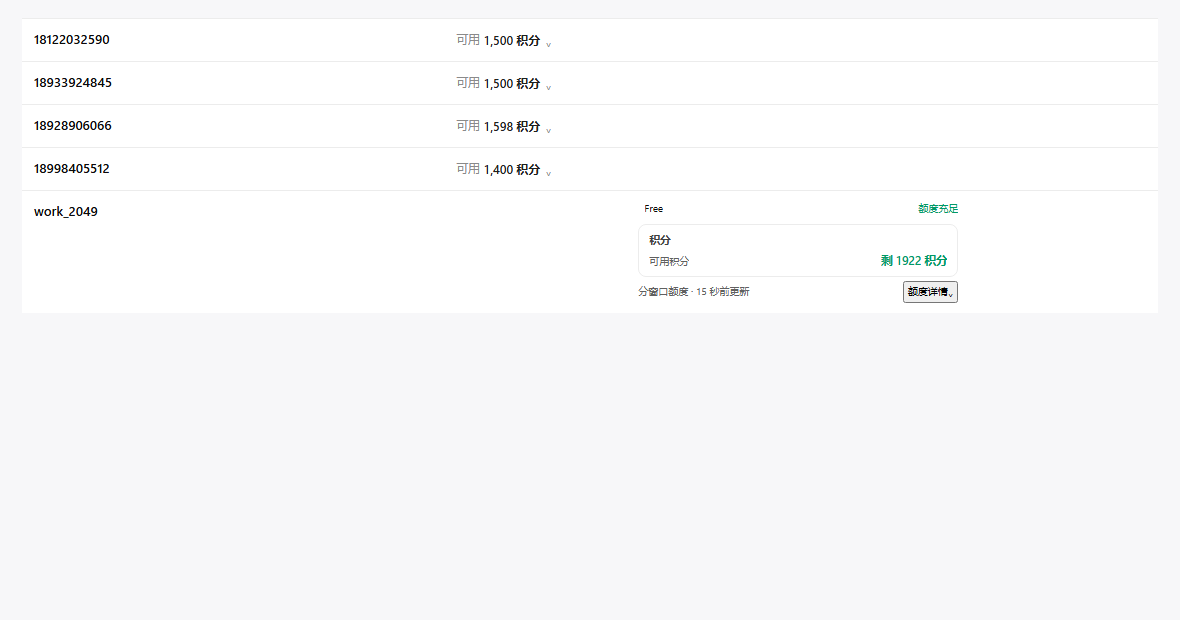
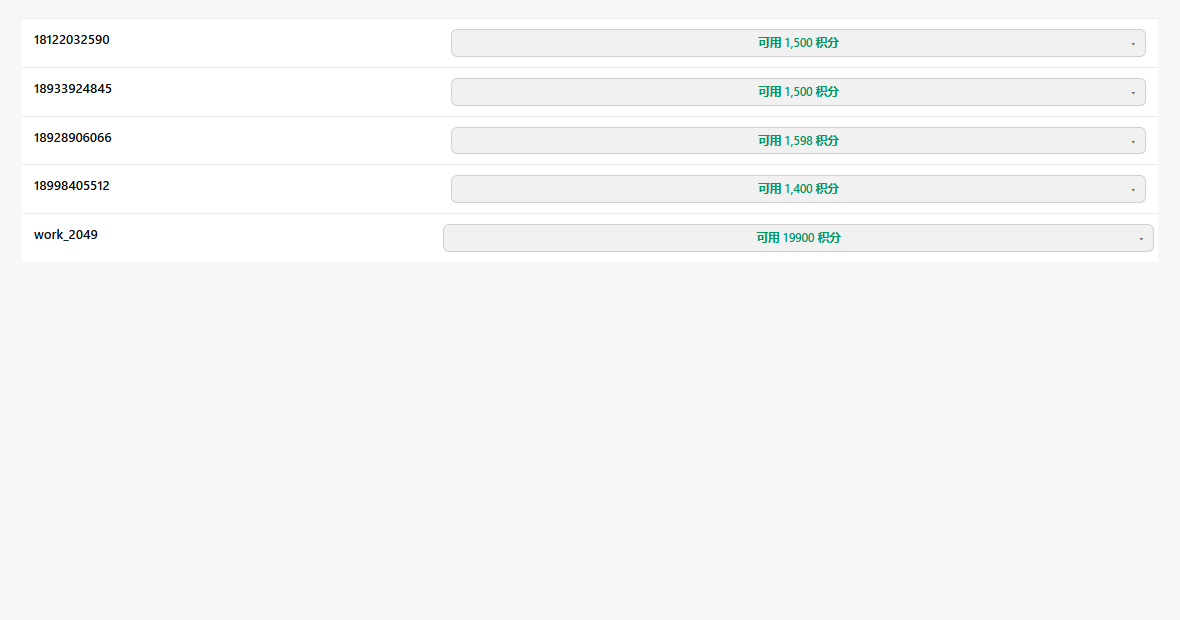
style(host-patch): reuse host usage-toggle/pop classes so AStudio matches WorkBuddy (0.7.2)

diff --git a/host-patch/astudio-usage-compact.js b/host-patch/astudio-usage-compact.js
@@ -33,9 +33,8 @@
 #@POP@ {
   position: fixed;
   z-index: 2147483000;
-  min-width: 248px;
+  width: 320px;
   max-width: min(320px, calc(100vw - 24px));
-  padding: 10px 14px 12px;
   border: 1px solid var(--ui-hairline, #e6e6e6);
   border-radius: var(--r-md, 10px);
   background: var(--ui-surface, #fff);
@@ -45,118 +44,9 @@
   line-height: 1.45;
 }
 #@POP@[hidden] { display: none; }
-#@POP@ .a2a-usage-head {
-  display: flex;
-  align-items: baseline;
-  gap: 8px;
-  color: var(--ui-text-3, #8a8a8a);
-  font-size: 11.5px;
-}
-#@POP@ .a2a-usage-head b {
-  color: var(--ui-text-1, #1f1f1f);
-  font-size: 12.5px;
-  font-weight: 600;
-}
-#@POP@ .a2a-usage-head .a2a-usage-status {
-  margin-left: auto;
-  color: var(--ui-success, #12a150);
-}
-#@POP@ .a2a-usage-total {
-  display: flex;
-  align-items: baseline;
-  gap: 8px;
-  margin-top: 10px;
-  padding: 8px 11px;
-  border-radius: var(--r-xs, 6px);
-  background: var(--ui-surface-inset, #f1f1f2);
-}
-#@POP@ .a2a-usage-total .k { font-size: 11.5px; color: var(--ui-text-3, #8a8a8a); }
-#@POP@ .a2a-usage-total .v {
-  margin-left: auto;
-  color: var(--ui-success, #12a150);
-  font-size: 13.5px;
-  font-weight: 700;
-  font-variant-numeric: tabular-nums;
-}
-#@POP@ .a2a-usage-group {
-  display: flex;
-  align-items: center;
-  gap: 8px;
-  margin-top: 12px;
-  color: var(--ui-text-3, #8a8a8a);
-  font-size: 11px;
-}
-#@POP@ .a2a-usage-group::after {
-  content: "";
-  flex: 1;
-  height: 1px;
-  background: var(--ui-hairline, #e6e6e6);
-}
-#@POP@ .a2a-usage-row {
-  display: flex;
-  align-items: baseline;
-  gap: 8px;
-  padding: 7px 0;
-}
-#@POP@ .a2a-usage-row + .a2a-usage-row { border-top: 1px dashed var(--ui-hairline, #e6e6e6); }
-#@POP@ .a2a-usage-name {
-  min-width: 0;
-  overflow: hidden;
-  text-overflow: ellipsis;
-  white-space: nowrap;
-  color: var(--ui-text-2, #4a4a4a);
-}
-#@POP@ .a2a-usage-view {
-  margin-left: auto;
-  flex: none;
-  font-weight: 600;
-  font-variant-numeric: tabular-nums;
-}
-#@POP@ .a2a-usage-view.muted { color: var(--ui-text-3, #8a8a8a); font-weight: 500; }
-#@POP@ .a2a-usage-foot {
-  margin-top: 10px;
-  padding-top: 9px;
-  border-top: 1px solid var(--ui-hairline, #e6e6e6);
-  color: var(--ui-text-3, #8a8a8a);
-  font-size: 10.5px;
-}
-
-.a2a-usage-line {
-  display: inline-flex;
-  align-items: center;
-  gap: 4px;
-  max-width: 100%;
-  margin: 0;
-  padding: 2px 6px;
-  border: 0;
-  border-radius: var(--r-xs, 6px);
-  background: transparent;
-  color: var(--ui-text-1, #1f1f1f);
-  font: inherit;
-  font-size: 12px;
-  line-height: 1.5;
-  text-align: left;
-  cursor: pointer;
-}
-.a2a-usage-line:hover { background: var(--ui-row-hover, rgba(0, 0, 0, .05)); }
-.a2a-usage-line:focus-visible { outline: 2px solid var(--ui-focus-ring, #4a8cff); outline-offset: 1px; }
-.a2a-usage-line .a2a-usage-label { flex: none; color: var(--ui-text-3, #8a8a8a); font-size: 11.5px; }
-.a2a-usage-line .a2a-usage-value {
-  flex: none;
-  font-weight: 600;
-  font-variant-numeric: tabular-nums;
-  white-space: nowrap;
-}
-.a2a-usage-line .a2a-usage-value.is-zero { color: var(--ui-text-3, #8a8a8a); font-weight: 500; }
-.a2a-usage-line .a2a-usage-caret {
-  flex: none;
-  margin-left: 1px;
-  color: var(--ui-text-3, #8a8a8a);
-  font-size: 11px;
-  line-height: 1;
-  transition: transform .15s ease;
-}
-.a2a-usage-line[aria-expanded="true"] .a2a-usage-caret { transform: rotate(180deg); }
+/* 按钮本体直接用宿主的 .usage-toggle，这里只把宽度收敛到余额列内，
+   其余底色/描边/圆角/绿字/箭头/悬停/展开态全部继承宿主样式 */
+.a2a-usage-line.usage-toggle { width: 100%; margin-inline: 0; }
 `.split("@POP@").join(POP_ID);
 
   const style = document.createElement("style");
@@ -231,25 +121,24 @@
     const node = ensurePop();
     node.textContent = "";
 
-    const head = document.createElement("div");
-    head.className = "a2a-usage-head";
-    const planLabel = document.createElement("span");
-    planLabel.textContent = "套餐";
-    const planValue = document.createElement("b");
-    planValue.textContent = data.plan || "—";
-    head.append(planLabel, planValue);
-    if (data.status) {
-      const status = document.createElement("span");
-      status.className = "a2a-usage-status";
-      status.textContent = data.status;
-      head.appendChild(status);
+    // 结构照宿主 WorkBuddy/AutoClaw 的 .usage-pop 一组，样式全部复用宿主 CSS
+    const wrap = document.createElement("div");
+    wrap.className = "usage-pop";
+
+    if (data.plan || data.status) {
+      const sub = document.createElement("div");
+      sub.className = "usage-pop-sub";
+      const bits = [];
+      if (data.plan) bits.push("套餐 " + data.plan);
+      if (data.status) bits.push(data.status);
+      sub.textContent = bits.join(" · ");
+      wrap.appendChild(sub);
     }
-    node.appendChild(head);
 
     const total = totalOf(data.rows);
     if (total !== null) {
       const box = document.createElement("div");
-      box.className = "a2a-usage-total";
+      box.className = "usage-pop-total";
       const key = document.createElement("span");
       key.className = "k";
       key.textContent = "总积分";
@@ -257,44 +146,48 @@
       value.className = "v";
       value.textContent = formatNumber(total) + " 积分";
       box.append(key, value);
-      node.appendChild(box);
+      wrap.appendChild(box);
     }
 
     const group = document.createElement("div");
-    group.className = "a2a-usage-group";
+    group.className = "usage-pop-group";
     group.textContent = "积分明细";
-    node.appendChild(group);
+    wrap.appendChild(group);
 
     for (const row of data.rows) {
       const line = document.createElement("div");
-      line.className = "a2a-usage-row";
+      line.className = "usage-pop-line";
       const name = document.createElement("span");
-      name.className = "a2a-usage-name";
+      name.className = "usage-pop-name";
       name.textContent = row.name;
       const view = document.createElement("span");
       const amount = amountOf(row.view);
-      view.className = "a2a-usage-view" + (amount === 0 ? " muted" : "");
+      view.className = "usage-pop-view " + (amount ? "ok" : "muted");
       view.textContent = row.view;
       line.append(name, view);
-      node.appendChild(line);
+      const rowWrap = document.createElement("div");
+      rowWrap.className = "usage-pop-row";
+      rowWrap.appendChild(line);
+      wrap.appendChild(rowWrap);
     }
 
     if (data.updated) {
-      const foot = document.createElement("div");
-      foot.className = "a2a-usage-foot";
-      foot.textContent = data.updated;
-      node.appendChild(foot);
+    const foot = document.createElement("div");
+    foot.className = "usage-pop-sub";
+    foot.textContent = data.updated;
+    wrap.appendChild(foot);
     }
+
+    node.appendChild(wrap);
     return node;
   }
-
   function place(anchor) {
     const node = ensurePop();
     const rect = anchor.getBoundingClientRect();
     node.hidden = false;
     const box = node.getBoundingClientRect();
     const margin = 6;
-    let left = rect.left;
+    let left = rect.left + (rect.width - box.width) / 2;
     if (left + box.width > window.innerWidth - 8) left = Math.max(8, window.innerWidth - 8 - box.width);
     let top = rect.bottom + margin;
     if (top + box.height > window.innerHeight - 8) {
@@ -345,18 +238,18 @@
     if (!button) {
       button = document.createElement("button");
       button.type = "button";
-      button.className = "a2a-usage-line";
+      // 按钮本体复用宿主 .usage-toggle：底色/描边/圆角/绿字/箭头/悬停/展开态
+      // 全部由宿主 CSS 提供（WorkBuddy/AutoClaw 同一套），不在这里自造样式
+      button.className = "a2a-usage-line usage-toggle";
       button.setAttribute("aria-expanded", "false");
       button.setAttribute("aria-haspopup", "dialog");
-      const labelNode = document.createElement("span");
-      labelNode.className = "a2a-usage-label";
-      labelNode.textContent = "可用";
-      const valueNode = document.createElement("span");
-      valueNode.className = "a2a-usage-value";
+      const valNode = document.createElement("span");
+      valNode.className = "val";
       const caret = document.createElement("span");
-      caret.className = "a2a-usage-caret";
-      caret.textContent = "⌄";
-      button.append(labelNode, valueNode, caret);
+      caret.className = "caret";
+      caret.setAttribute("aria-hidden", "true");
+      caret.textContent = "▾";
+      button.append(valNode, caret);
       button.addEventListener("click", (event) => {
         event.preventDefault();
         event.stopPropagation();
@@ -367,10 +260,10 @@
       td.appendChild(button);
     }
 
-    const valueNode = button.querySelector(".a2a-usage-value");
-    valueNode.textContent = value;
-    valueNode.classList.toggle("is-zero", total === 0);
-
+    const valNode = button.querySelector(".val");
+    valNode.textContent = "可用 " + value;
+    button.classList.toggle("ok", total > 0);
+    button.classList.toggle("muted", !(total > 0));
     // 隐藏原生卡片，但保留它 —— 弹窗的数据就是从这里读的
     cell.style.display = "none";
   }

diff --git a/host-patch/verify-usage.py b/host-patch/verify-usage.py
@@ -50,6 +50,9 @@ ACCOUNTS = [
 BUILD_ROWS = """
 (accounts) => {
   const esc = (s) => String(s).replace(/[&<>"]/g, (c) => ({ "&": "&amp;", "<": "&lt;", ">": "&gt;", '"': "&quot;" }[c]));
+  const hostToggle = '<button type="button" class="usage-toggle ok" aria-expanded="false">' +
+    '<span class="val">可用 19900 积分</span>' +
+    '<span class="caret" aria-hidden="true">▾</span></button>';
   const cell = (a) =>
     '<span class="usage-sum-wrap flex flex-col gap-1">' +
       '<span class="usage-cell usage-window-cell"><span class="usage-window-quota">' +
@@ -77,7 +80,7 @@ BUILD_ROWS = """
   document.getElementById("rows").innerHTML = accounts.map((a) =>
     '<tr class="acct-row" data-id="' + a.id + '" data-provider="' + a.provider + '">' +
       '<td class="cell-name">' + esc(a.name) + '</td>' +
-      '<td class="cell-usage">' + cell(a) + '</td>' +
+      '<td class="cell-usage">' + (a.provider === "workbuddy" ? hostToggle : cell(a)) + '</td>' +
       '</tr>').join('');
 }
 """
@@ -129,23 +132,43 @@ async def main():
         lines = await page.eval_on_selector_all(
             "tr.acct-row .a2a-usage-line", "els => els.map(e => e.textContent)"
         )
+        classes = await page.eval_on_selector_all(
+            "tr.acct-row[data-provider='astudio'] .a2a-usage-line", "els => els.map(e => e.className)"
+        )
+        val_text = await page.eval_on_selector_all(
+            "tr.acct-row[data-provider='astudio'] .a2a-usage-line .val", "els => els.map(e => e.textContent)"
+        )
+        caret_text = await page.eval_on_selector_all(
+            "tr.acct-row[data-provider='astudio'] .a2a-usage-line .caret", "els => els.map(e => e.textContent)"
+        )
+        wb_toggle = await page.eval_on_selector_all(
+            "tr.acct-row[data-provider='workbuddy'] .usage-toggle", "els => els.map(e => e.textContent)"
+        )
+        print("装饰出的单条读数：", lines)
         hidden = await page.eval_on_selector_all(
             "tr.acct-row[data-provider='astudio'] .usage-window-cell",
             "els => els.map(e => getComputedStyle(e).display)",
         )
         untouched = await page.eval_on_selector_all(
-            "tr.acct-row[data-provider='workbuddy'] .usage-window-cell",
-            "els => els.map(e => getComputedStyle(e).display)",
+            "tr.acct-row[data-provider='workbuddy'] .a2a-usage-line",
+            "els => els.length",
         )
-        print("装饰出的单条读数：", lines)
+        print("AStudio 按钮 class（应 usage-toggle ok）：", classes)
+        print("AStudio .val 读数：", val_text)
+        print("AStudio .caret（应 ▾）：", caret_text)
         print("astudio 原生卡片 display（应全 none）：", hidden)
-        print("workbuddy 原生卡片 display（应仍 block）：", untouched)
+        print("workbuddy 行被装饰数（应 0）：", untouched)
+        print("WorkBuddy 宿主胶囊（对比基准）：", wb_toggle)
         await page.screenshot(path=str(SHOTS / "usage-1-closed.png"))
 
         await page.click("tr.acct-row[data-provider='astudio'] .a2a-usage-line")
         await page.wait_for_timeout(250)
         text = await page.eval_on_selector("#a2a-usage-pop", "e => e.innerText")
-        print("浮层内容：", text.replace("\n", " | "))
+        pop_classes = await page.eval_on_selector_all(
+            "#a2a-usage-pop [class]", "els => els.map(e => e.className)"
+        )
+        print("浮层内容：", text.replace(chr(10), " | "))
+        print("浮层复用的宿主类：", sorted(set(pop_classes)))
         await page.screenshot(path=str(SHOTS / "usage-2-open.png"))
 
         await page.mouse.click(30, 560)

diff --git a/docs/state/progress.md b/docs/state/progress.md
@@ -36,3 +36,4 @@
 - 2026-11-21 23:40 | #032 | 滑块结果进不了插件：补一个 ask（0.7.1） | 0.7.0 部署后实测 `POST /api/session/login/start` 带 `inputs:{mobile, captcha}` 被宿主回 400 `{"error":"inputs 包含未申报的字段或非字符串值"}` —— 卡在 `api/session.rs:405-417 checked_login_inputs`：只有 `method.dynamic_prompts` 为真才放行未申报字段，否则每个 key 必须落在 `method.prompts` 里。`dynamic_prompts` 的唯一来源是 `host/login.mjs:22`（`typeof method.ask === "function"` 或某个 prompt 的 condition 是函数），而 `api/session.rs:305-311` 禁止 `type==="sms"` 的方法声明 prompts/dynamic_prompts，所以这条只能继续挂 oauth。改法：方法 1 加 `ask: () => null` —— 标记成动态表单，但 `login-prompts.mjs:59` 见到 null 不追加字段，面板上仍然只有手机号一个输入框（且面板前端 `/app/ui/islands/ui.js` 里 `dynamicPrompts` 出现 0 次，根本不读这个标记，外观零变化）。**实测**：gk 上 `methods` 里方法 1 变 `dynamicPrompts:true`、`prompts:['mobile']`；假三件 → 502「滑块校验没通过，请重新拖一次（AStudio 发送短信验证码失败（HTTP 200：geetest verify failed））」（证明字段进到了插件、发码请求真的发出去了）；**真三件**（本地 playwright 解滑块拿 `{geetest_challenge,geetest_validate,geetest_seccode}`）→ 200、`authUrl:""`、`externalBrowser:true`、instructions 末尾「短信验证码已发送到 181****2590：…」⇒ 服务端发码链路成立，短信真的发出去了。77 条测试全绿（新增 ask 断言） | 0.7.1
 - 2026-11-21 23:52 | #033 | 删掉「手机验证码（已收到码）」（0.7.2） | 用户看截图后说「这个不需要，移除。根据目前操作步骤和业务逻辑，我很难已收到短信验证码」—— 确实：这条要求点按钮**之前**手里已经有验证码，而正常顺序是先点按钮才发码，只有装了补丁（面板内发码）或自己去网页取过码的人才有码，留着只会让人困惑。删掉后方法表变 5 条：0 扫码 / 1 手机验证码登录 / 2 粘贴模型凭据 / 3 导入凭据 JSON / 4 导入本机登录态（序号是数组下标，所以后面三条各前移一位）。连带删掉 `lib/login.mjs` 的 `authorizeSmsForm`、`index.mjs` 里对 `LOGIN_PAGE_URL` 的 import、两条对应用例，README 方法表与 A/B 两条路径改成 C/A。**注意 `authorizeSms` 仍然认 `inputs.code`**：方法 1 现在带 `ask`（dynamicPrompts=true），补丁要是在 start 里顺带把码一起交上来也接得住。测试 77 → **76 条全绿**。gk 上复核 `methods` 5 条、方法 1 仍 `dynamicPrompts:true` + `prompts:['mobile']`；账号表回到 4 个（18998405512 已被用户自己加回来，addedAt 1795275407070） | 0.7.2
 - 2026-11-22 00:35 | #034 | 余额列改成单条读数 + 弹窗（宿主补丁） | 用户要求把 AStudio · zp 的余额列改成 WorkBuddy 那种「一行读数 + 点开浮层看明细」。**数据层做不到**：面板余额格的形态由宿主 `reports.mjs:11-39 usageReport()` 决定，它只透 `{success, windows[], user, signIn, resets, subscription, available, availableView, balanceView, warnings}`；WorkBuddy 的单行读数靠 `totalLeft`、明细靠 `credits`（`ui.js` 的 `lOe()` 判 `hasOwnProperty("totalLeft")`、弹层读 `t.credits`），`wallets` 那条路（`uOe`/`dOe`）也要 `wallets` —— 这些键都由宿主自己的 native provider 产出，脚本插件这条路上全部被裁掉；`reports.mjs` 又编译进 server 二进制（容器里 `find / -name reports.mjs` 无结果），改不了。所以走**宿主 UI 补丁**：新增 `host-patch/astudio-usage-compact.js`，在 `tr.acct-row[data-provider="astudio"]` 的 `td.cell-usage` 里隐藏 React 渲染的 `.usage-window-cell`，插入按钮「可用 1,500 积分 ⌄」，点开浮层显示套餐 / 总积分（各池相加）/ 各池余额 / 更新时间。数据**从被隐藏的卡片 DOM 读**（`.usage-window-value` 的 `title` 优先 —— 面板把 `title` 设成原始读数，显示文本可能被换成「剩余 43%」），不碰接口、不需要面板 Key；MutationObserver 跟着 React 每 15 秒的重渲染走；卡片没渲染时补丁什么都不做。`install.sh` 的 `FILES` 加上它，一次装三个补丁。**验证**：`host-patch/verify-usage.py` 借面板自己的 `/login` 页当真 origin（`page.route` 伪造出来的文档会被 Chromium 判成 public address space，取 192.168.x 的私有资源被 PNA 拦掉），清空 body 后装进复刻 `hOe/mOe/BTe` 标记的仿真行，同源加载 `/css/tokens.css` + `/islands/ui.css` + `/css/page-accounts-table.css` + 补丁本身 —— 4 行 astudio 全部装饰成「可用 1,500 积分 ⌄」、原生卡片 `display:none`、workbuddy 行不动、浮层内容正确、点外面/Esc 能关、整格替换后自动重新装饰。gk 上已 `docker cp` 并注入 `index.html` 第 147 行，容器内 sha256 `a99a637d…`、`curl /astudio-usage-compact.js` 200 / 14506 字节。插件代码未改（余额数据本来就有），版本仍 0.7.2 | 0.7.2
+- 2026-11-22 00:47 | #035 | 余额胶囊与 WorkBuddy 统一样式（宿主补丁） | 用户贴真面板截图（WorkBuddy/AutoClaw 的余额是浅灰圆角胶囊 + 绿色居中文字「可用 19900 积分」+ 右侧 `▾`，AStudio 补丁却是裸文本「可用 1,500 积分 ⌄」），问「能不能统一样式？」。第一版补丁自造了 `.a2a-usage-line` 样式（transparent 背景、无边框、左对齐、caret `⌄`），与宿主不是一套。查 `/app/ui/css/page-accounts-table.css` 与 `islands-ui.js` 确认宿主真身：按钮是 `.usage-toggle`（`border:1px solid var(--control-border)`、`background:var(--control-bg)`、`border-radius:var(--r-xs)`，内部 `.val` 居中绿字 + `.caret` 绝对定位 `▾`，状态类 `.ok/.warn/.muted`，`.usage-toggle[aria-expanded=true]` 翻转箭头），弹窗是 `.usage-pop` 一组（`.usage-pop-total` 灰底合计 + `.usage-pop-group` 带细线小标题 + `.usage-pop-row/.usage-pop-line/.usage-pop-name/.usage-pop-view`，0 值 `muted`）。改法：**不再自造视觉，直接复用宿主类** —— 按钮挂 `a2a-usage-line usage-toggle ok`、内部 `.val` + `.caret`(`▾`)，CSS 里只剩一条宽度收敛 `.a2a-usage-line.usage-toggle{width:100%;margin-inline:0}`；浮层内容整段换成 `.usage-pop-*` 那一套，容器 `width:320px`（宿主 Popover 是 `w-[320px]`）且 `place()` 改为居中于按钮（宿主 `align:"center"`），只保留 fixed 定位（宿主走 Popover portal，我们没法直接用它的定位层）。`verify-usage.py` 同步改造：WorkBuddy 那一行直接造一枚真的宿主 `usage-toggle` 当对比基准，断言 AStudio 按钮 class 含 `usage-toggle ok`、`.val` 读数、`.caret` 为 `▾`、浮层用的是 `usage-pop-*` 类（实际输出 `['usage-pop','usage-pop-total','usage-pop-group','usage-pop-row','usage-pop-line','usage-pop-name','usage-pop-view ok','usage-pop-view muted',…]`）。截图 `preview/usage-1-closed.png` / `usage-2-open.png` 里 4 行 AStudio 与 1 行 WorkBuddy 的胶囊完全同款。已 scp 到 gk `/home/gk/qrpatch/` 并重跑 install.sh；插件代码未改，版本仍 0.7.2 | 0.7.2
